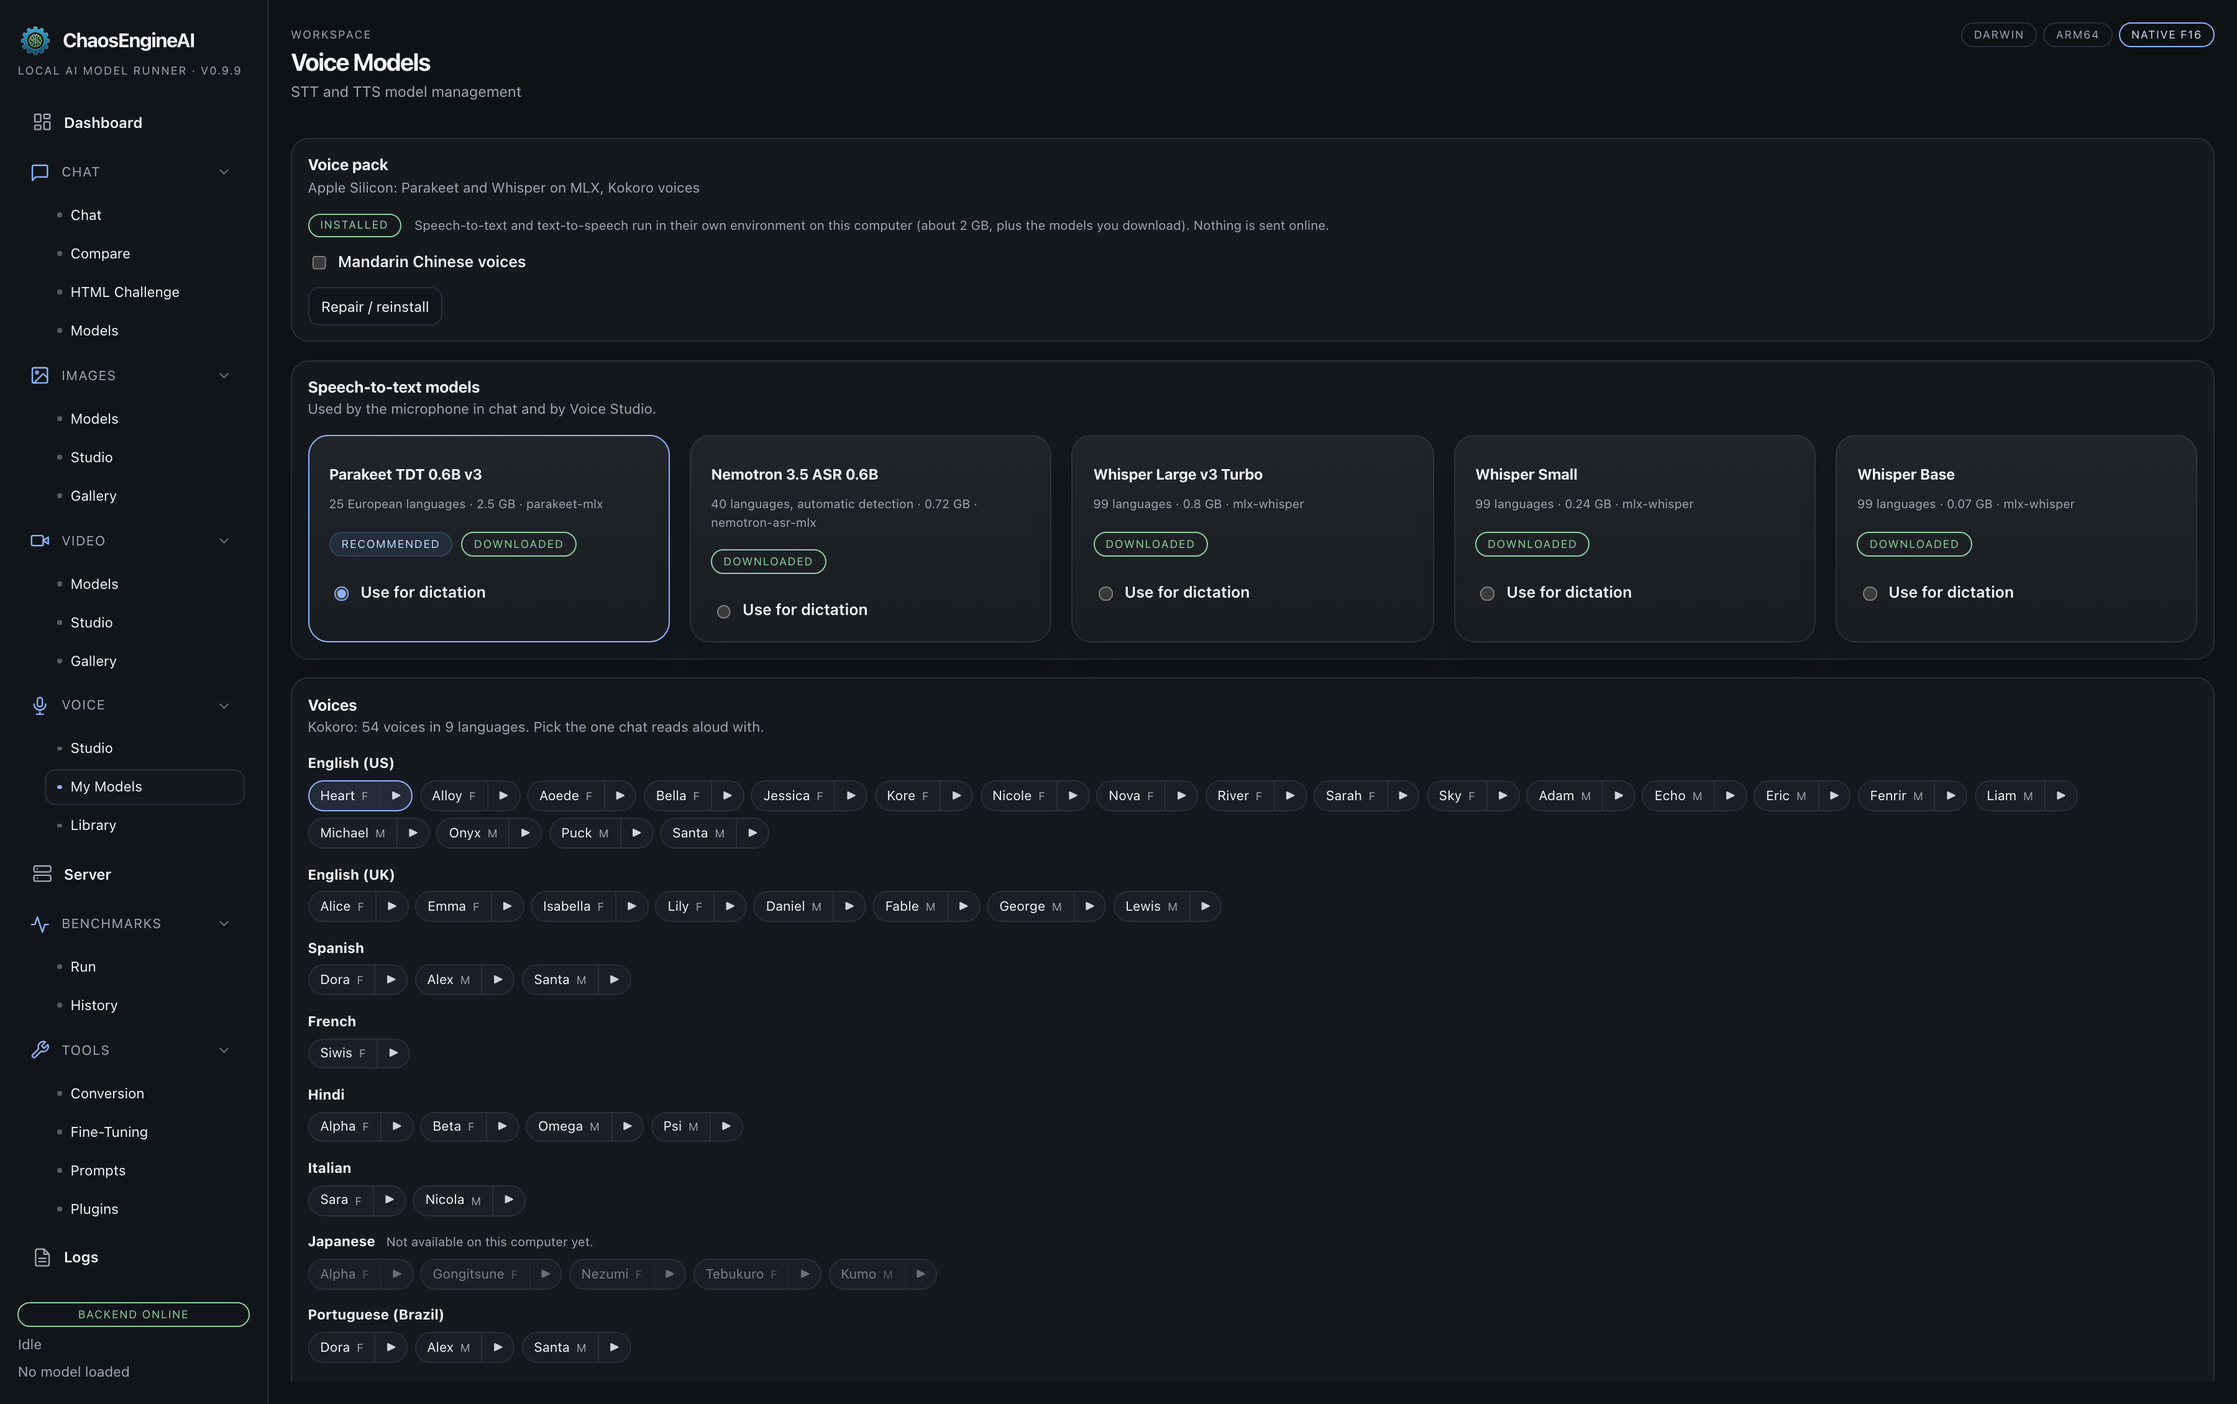
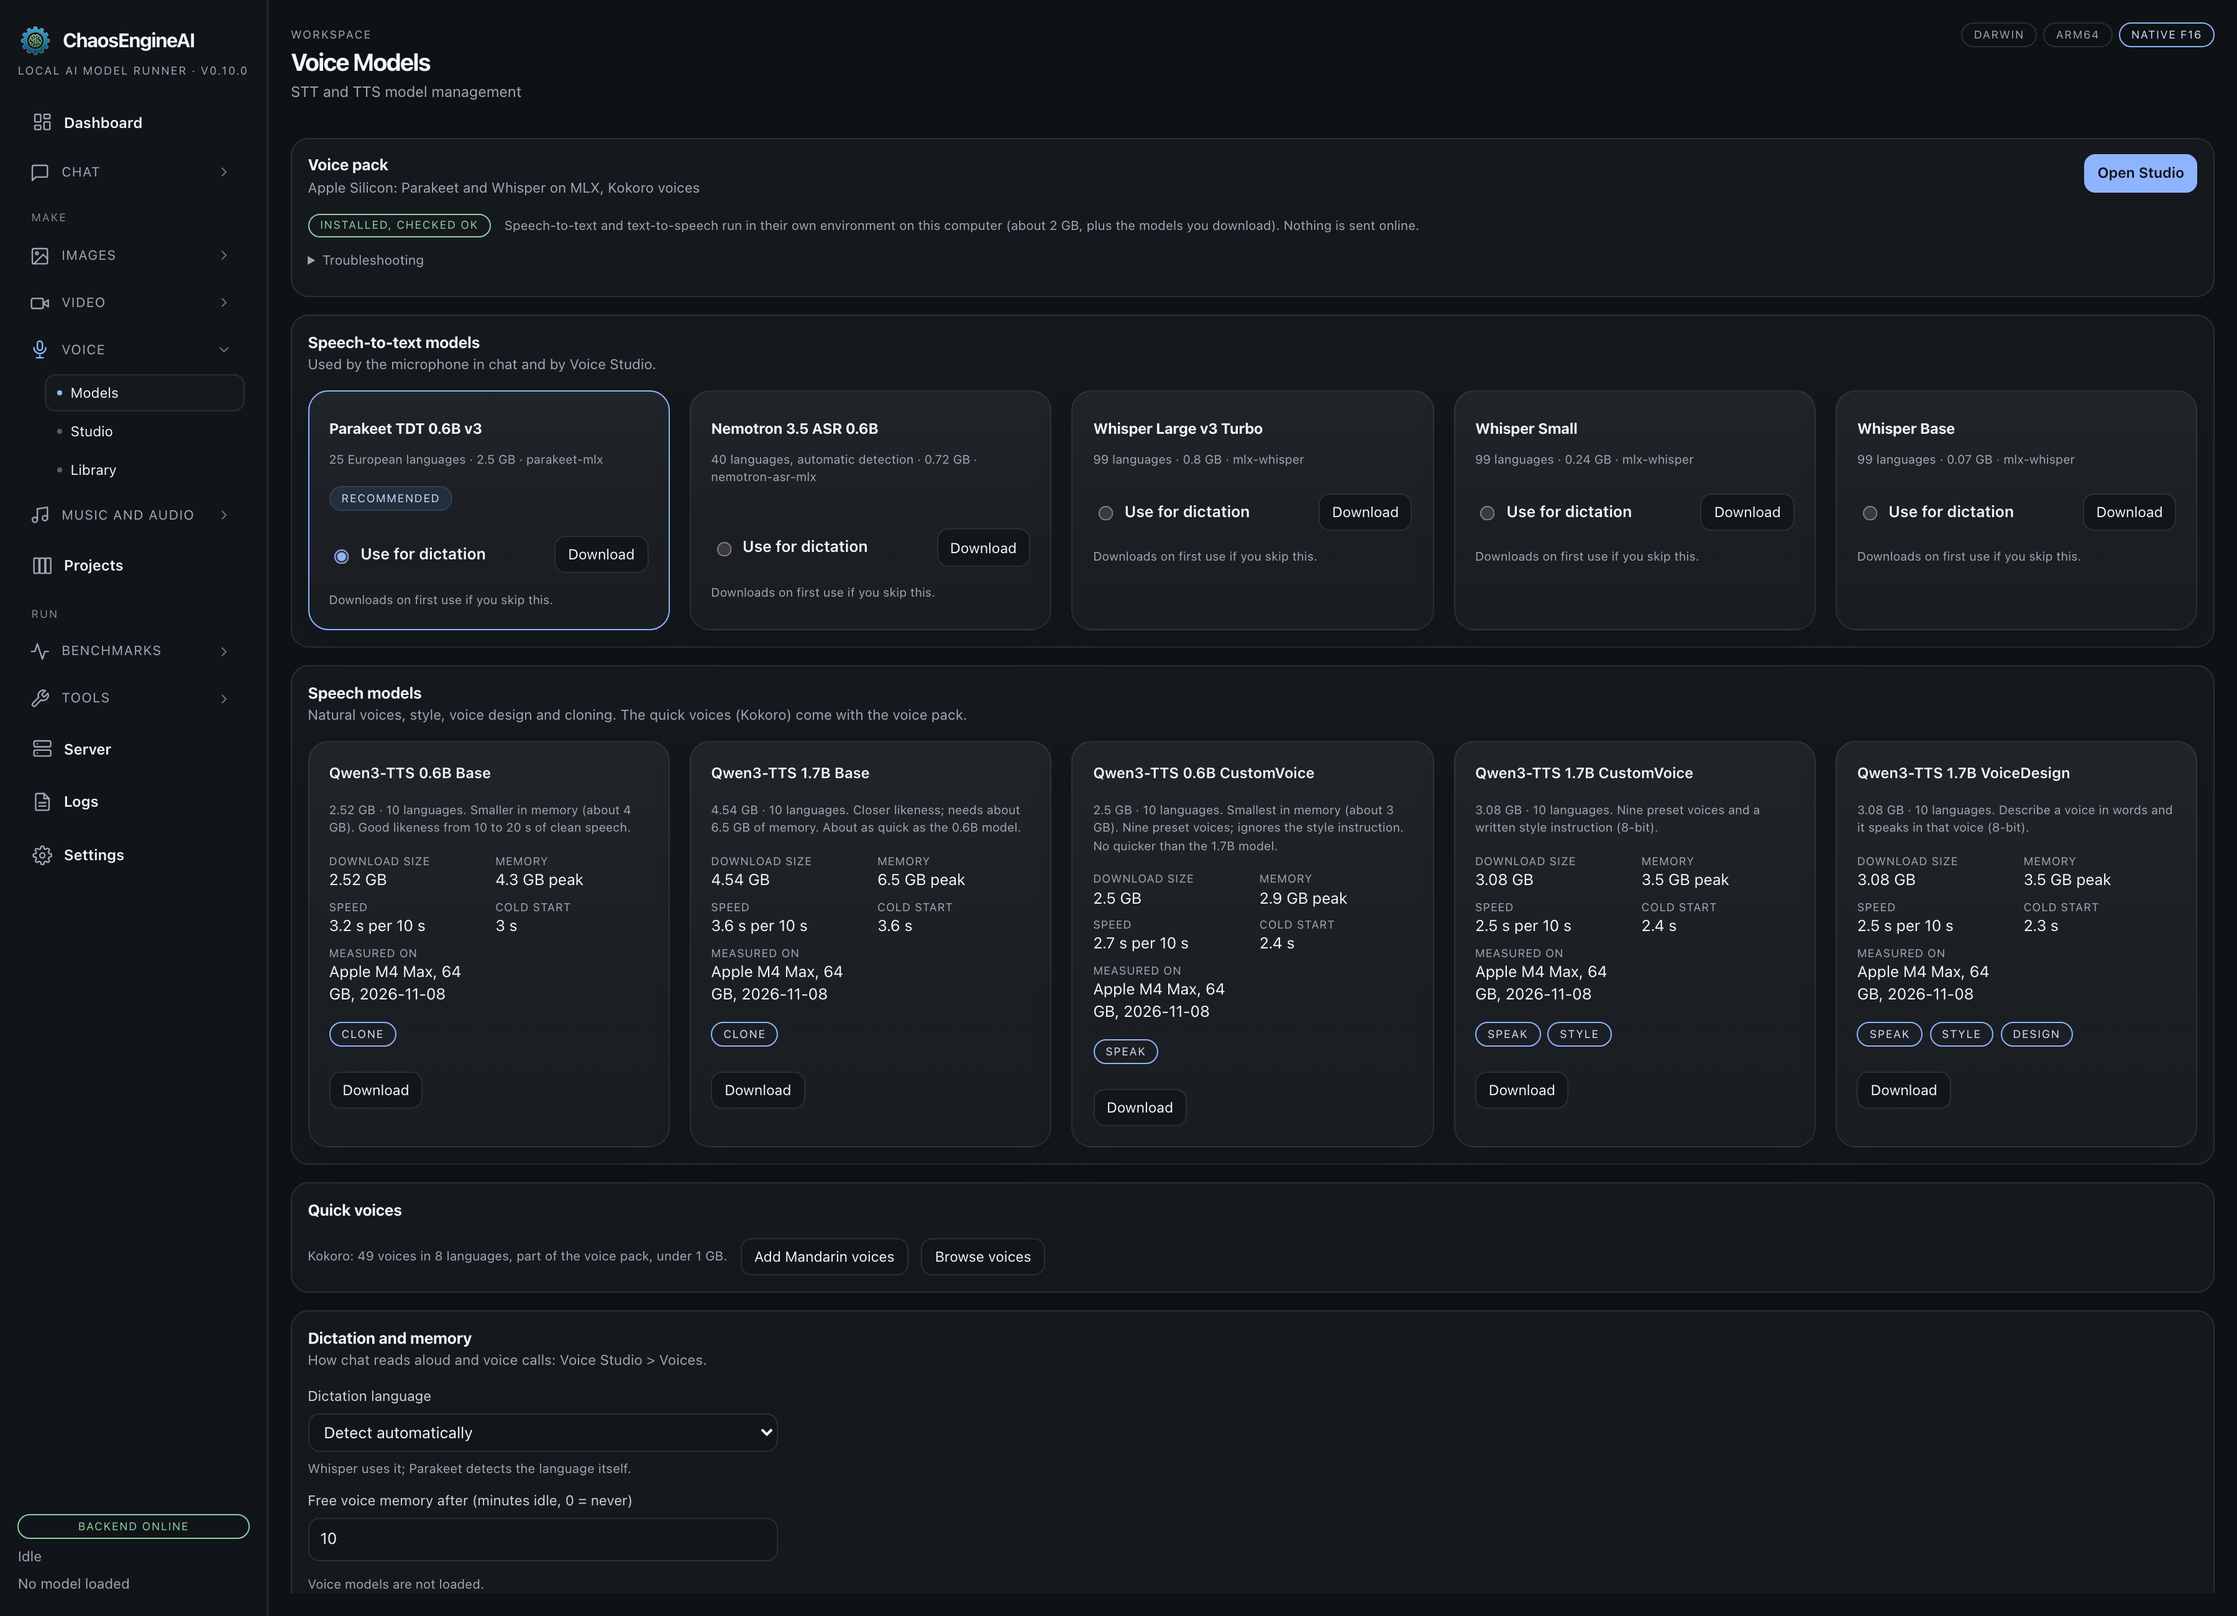
docs(voice): usage page for the Voices manager, Chat and calls, autosave and Speak again; new Voice Models screenshot; FU-146 shipped; D-67 progress line; hub rebuilt (D-67 W10)

diff --git a/docs/usage/voice.md b/docs/usage/voice.md
@@ -8,12 +8,17 @@ Studio for transcribing and speaking files.
 
 Install the voice pack once from **Voice > Models** (about 2 GB, plus the
 models you choose). It lives in its own folder, so it cannot disturb the rest
-of the app. The same page lists the speech-recognition models, lets you pick
-the one used for dictation, and previews the Kokoro voices that chat reads
-aloud with. Each speech model row shows its download size, peak memory,
+of the app. The same page lists the speech-recognition models and lets you
+pick the one used for dictation. Each speech model row shows its download size, peak memory,
 seconds per 10 s of speech, cold start and the machine it was measured on;
 an installed row has **Use in Speak** (a cloning model has **Browse
 voices**), which opens Voice Studio with that model's voice selected.
+
+The quick (Kokoro) voices have one line here, with how many there are on this
+computer, **Add Mandarin voices** while that add-on is missing, and **Browse
+voices**, which opens Voice Studio > Voices. **Dictation and memory** holds the
+dictation language, how long voice models stay loaded when idle, and **Unload
+now**. How chat reads aloud and voice calls are set on Voice Studio > Voices.
 
 ![Voice > Models](../screenshots/voice-models.png)
 
@@ -31,7 +36,8 @@ The first time you use the microphone, macOS asks for permission.
 
 - **Dictation.** The microphone button in the composer.
 - **Read-aloud.** A speaker button on every reply, or have replies read
-  automatically.
+  automatically. Chat reads with the chat voice, chosen with **Use in Chat**
+  on Voice Studio > Voices (quick voices for now).
 - **Voice calls.** Press **Call** and talk. The app hears when you stop, the
   model answers out loud, and you can talk over it to interrupt. Every turn is
   saved in the chat. An (i) next to Call lists anything still missing.
@@ -61,8 +67,8 @@ as WAV or MP3. The voice picker has five groups:
   Michael, Puck); **All voices** shows the rest. Choosing Chinese offers the
   Mandarin add-on in place when it is missing. Japanese is not listed on
   Apple Silicon, where it cannot run.
-- **Cloned**: your cloned voices, and **New cloned voice**, which opens the
-  form on the Voices tab.
+- **Cloned**: the standing statement on cloning, your cloned voices, and
+  **New cloned voice**, which opens the form on the Voices tab.
 - **Designed**: a voice made from a written description. It changes on every
   run unless you set a seed under Advanced.
 - **More**: the other natural voices, and **Get more voices**, which opens
@@ -75,12 +81,31 @@ model that will run with the same numbers, and **Manage in Models** goes to
 the model list. A model that has not been measured says so instead of
 showing a guess.
 
+The style box takes free text: tone, pace and accent in your own words. For a
+designed voice it is the description (age, gender, pitch, tone, accent, pace).
+Speed and pitch are an ffmpeg step for every voice except quick voices, which
+change speed themselves; when ffmpeg is missing the screen says so before
+Generate.
+
+Every result is saved to the Voice Library with the voice's name; **Saved to
+Library** on the result opens the Library on Speech.
+
 Speak starts on the voice you picked last time in Speak (kept apart from the
 chat voice); before you have picked one, it starts on the best installed
 natural voice for the app's language, else the best-graded quick voice. When
 both CustomVoice models are installed the 1.7B one always runs, so typing a
 style never swaps the model; the 0.6B one runs only when it is the only one
 installed.
+
+**Voices** is the voice manager: every voice in one list, filtered by kind
+(Recommended, Quick, Natural, Cloned, Designed) and language. Each row has a
+sample button (cloned and designed voices too; a sample is never kept),
+**Use in Speak** and **Use in Chat**; cloned voices also have **Delete**. Chat
+uses quick voices for now, so Use in Chat is greyed out on the others. Cards
+at the top make a cloned voice, design one, add the Mandarin voices while
+they are missing, or open Voice Models for more. **Chat and calls** at the
+bottom shows the chat voice and holds reading speed, auto-read, auto-send,
+the call pause and interrupt.
 
 **Transcribe** takes a recording or audio and video files in a queue, with
 speaker labels and translation to English. Edit the transcript, click a word
@@ -89,7 +114,7 @@ VTT or JSON, or send it to a chat.
 
 ### Clone a voice
 
-Voice Studio > **Clone** makes a voice from your own voice, or from someone
+Voice Studio > **Voices** > **Clone a voice** makes a voice from your own voice, or from someone
 who has given you permission. Apple Silicon Macs only for now. It uses
 Qwen3-TTS Base (0.6B is faster, 1.7B closer; Apache 2.0), downloaded from
 the same tab.
@@ -125,5 +150,8 @@ covers that use; the confirmation goes into the local log.
 
 ## Voice Library
 
-The Voice Library keeps every recording, transcript and generated clip. Items
-from the old Gallery move over the first time you open it.
+The Voice Library keeps every recording, transcript and generated clip. Speech
+cards name the voice and its kind (Quick, Natural, Designed, Cloned), mark
+clips made with a cloned voice as AI-made, and have **Speak again**, which
+opens Speak with the clip's text and voice. Items from the old Gallery move
+over the first time you open it.

diff --git a/FOLLOW_UPS.md b/FOLLOW_UPS.md
@@ -127,7 +127,7 @@ Read the row you need with `grep -n "FU-123" FOLLOW_UPS.md`, not the whole file.
 | FU-143 | Chat studio tools: batch a whole job into one plan | **Open (2026-11-08): not started.** Models make one plan card per render. | Add a line to the studio tool descriptions and the agent guide (D-61) telling the model to put every render for a job in one plan, then check with a real model. |
 | FU-144 | Chat thread pane very short at 375 px | **Open (2026-11-08): not started.** | On a phone-width window the app's own scroll box for the thread is short. Give it a minimum height; add a 375 px check to the Chat e2e. |
 | FU-145 | Verify per-model native frame rates | **Open (2026-11-08): not started.** Trigger: RTX 4090 test run (docs/plans/rtx4090-test.md). | The values in `backend_service/size_limits.py` came from memory sizes, not model cards. Check each against its model card or a real render, fix the hint text. |
-| FU-146 | Play a sample of cloned and designed voices | **Open (2026-11-08): not started.** | Built-in voices have a play-sample button; cloned and designed voices do not. |
+| ~~FU-146~~ | ~~Play a sample of cloned and designed voices~~ | **Shipped 2026-11-08 (D-67 W5, `feat/voice-ux-b`).** | Every voice that runs has a sample button on Voice Studio > Voices and on the Speak picker cards. Cloned and designed samples go through `POST /api/voice/speak` (request shape unchanged); the designed sample uses a fixed neutral description; a cloned sample, which the backend files in the Library (tagged and watermarked) like any cloned speech, is deleted from the Library straight after, so samples are never kept. Nobody has listened to a real cloned or designed sample yet (mocked in e2e). |
 | FU-147 | Size caps: `useChat.ts` and `generation.py` | **Open (2026-11-08): not started.** Trigger: next change to either file. | Both are over the soft caps in CLAUDE.md. Extract before adding. |
 | ~~FU-148~~ | ~~Qwen3-TTS 0.6B models: keep or hide~~ | **Dropped (owner 2026-11-08):** the only saving is disk space, which few users will lack. Both sizes stay listed. | Measured: the 0.6B models are not faster than 1.7B and cannot take a style instruction; memory is lower. |
 | FU-149 | Better speech models than Kokoro and Qwen3-TTS presets | **Open (2026-11-08): decided as D-70 (owner wants VoxCPM2, Chatterbox and Turbo, Orpheus 3B); research plan first, build after the voice UX packages.** | Candidates from docs/plans/voice-rework/research-models.md: VoxCPM2 (permissive licence, voice design and cloning, 48 kHz), Chatterbox and Chatterbox-Turbo (emotion dial, laugh tags), Orpheus 3B (most natural English presets, heavy, use the community mirror). Measure each on the M4 Max and the 4090 before adding a catalog row. Kokoro stays as the fast lane. |

diff --git a/e2e/README.md b/e2e/README.md
@@ -44,6 +44,6 @@ Traces contain request bodies and headers; do not share them from a run that use
 - `07-voice-clone`: (Voice Studio > Voices, and Speak for the cloned voice) the clone statement, the new-voice form (whose voice, speaker's name, permission tick, a sample from an uploaded file or the microphone through Chromium's fake device, wrong file type and a too-short recording refused, the fields sent), AI label on cloned speech, the form at 375 px.
 - `08-settings-terms`: Settings terms panel (read only), and an older accepted version bringing the terms back.
 - `09-mobile`: 375 px wide, no sideways scroll, a full-page screenshot per screen in `e2e/screenshots/` (git-ignored). One known failure is marked `test.fail` (F-1 in [docs/research/e2e-findings.md](../docs/research/e2e-findings.md)).
-- `14-voice-speak`: Voice Studio Speak (style box and chips greyed out for voices without style, model line and Download, the `/api/voice/speak` body), Voices (filters, Use, design card, delete with confirm) and the Voice Models speech-model rows, plus 375 px. Shared mocks in `tests/voiceMocks.ts`.
+- `14-voice-speak`: Voice Studio Speak (style box and chips greyed out for voices without style, model line and Download, the `/api/voice/speak` body), Voices (kind filters, Use in Speak, Use in Chat and the chat voice badge, samples for cloned voices not kept, Chat and calls, delete with confirm), the ffmpeg note before Generate, autosave to the Library and the Voice Models speech-model rows, plus 375 px. Shared mocks in `tests/voiceMocks.ts`.
 
 Spec order matters: `01-smoke` accepts the terms; `08` accepts them again against the same backend and leaves them accepted. `tests/helpers.ts` has the shared helpers (open a tab, seed a project, fixture media under the run's throwaway HOME).

diff --git a/docs/hub/tracker/README.md b/docs/hub/tracker/README.md
@@ -8,8 +8,8 @@ summary: Every FU row from FOLLOW_UPS.md, split into open and closed.
 
 Generated from the Follow-Ups Tracker in `FOLLOW_UPS.md` by `tools/hub_tracker.py`; edit the row there, not here.
 
-- [Open and live follow-ups](open.md): **71** rows.
-- [Closed follow-ups](closed.md): **79** rows.
+- [Open and live follow-ups](open.md): **70** rows.
+- [Closed follow-ups](closed.md): **80** rows.
 
 ## Newest ten
 
@@ -21,7 +21,7 @@ Generated from the Follow-Ups Tracker in `FOLLOW_UPS.md` by `tools/hub_tracker.p
 | [FU-149](open.md) | Better speech models than Kokoro and Qwen3-TTS presets | Open (2026-11-08): decided as D-70 (owner wants VoxCPM2, Chatterbox and Turbo, Orpheus 3B) |
 | [FU-148](closed.md) | Qwen3-TTS 0.6B models: keep or hide | Dropped (owner 2026-11-08): the only saving is disk space, which few users will lack |
 | [FU-147](open.md) | Size caps: useChat.ts and generation.py | Open (2026-11-08): not started |
-| [FU-146](open.md) | Play a sample of cloned and designed voices | Open (2026-11-08): not started. |
+| [FU-146](closed.md) | Play a sample of cloned and designed voices | Shipped 2026-11-08 (D-67 W5, feat/voice-ux-b). |
 | [FU-145](open.md) | Verify per-model native frame rates | Open (2026-11-08): not started |
 | [FU-144](open.md) | Chat thread pane very short at 375 px | Open (2026-11-08): not started. |
 | [FU-143](open.md) | Chat studio tools: batch a whole job into one plan | Open (2026-11-08): not started |

diff --git a/docs/hub/tracker/closed.md b/docs/hub/tracker/closed.md
@@ -1,7 +1,7 @@
 ---
 title: Closed follow-ups
 order: 3
-summary: 79 shipped, obsoleted or dropped rows, newest first.
+summary: 80 shipped, obsoleted or dropped rows, newest first.
 ---
 
 # Closed follow-ups
@@ -15,6 +15,15 @@ Generated from the Follow-Ups Tracker in `FOLLOW_UPS.md` by `tools/hub_tracker.p
 **Status or trigger:** **Dropped (owner 2026-11-08):** the only saving is disk space, which few users will lack. Both sizes stay listed.
 
 **Notes:** Measured: the 0.6B models are not faster than 1.7B and cannot take a style instruction; memory is lower.
+
+</details>
+
+<details>
+<summary>FU-146 · Play a sample of cloned and designed voices — Shipped 2026-11-08 (D-67 W5, feat/voice-ux-b).</summary>
+
+**Status or trigger:** **Shipped 2026-11-08 (D-67 W5, `feat/voice-ux-b`).**
+
+**Notes:** Every voice that runs has a sample button on Voice Studio > Voices and on the Speak picker cards. Cloned and designed samples go through `POST /api/voice/speak` (request shape unchanged); the designed sample uses a fixed neutral description; a cloned sample, which the backend files in the Library (tagged and watermarked) like any cloned speech, is deleted from the Library straight after, so samples are never kept. Nobody has listened to a real cloned or designed sample yet (mocked in e2e).
 
 </details>
 

diff --git a/docs/hub/tracker/open.md b/docs/hub/tracker/open.md
@@ -1,7 +1,7 @@
 ---
 title: Open and live follow-ups
 order: 2
-summary: 71 rows with work, decisions or watch items still open, newest first.
+summary: 70 rows with work, decisions or watch items still open, newest first.
 ---
 
 # Open and live follow-ups
@@ -51,15 +51,6 @@ Generated from the Follow-Ups Tracker in `FOLLOW_UPS.md` by `tools/hub_tracker.p
 **Status or trigger:** **Open (2026-11-08): not started.** Trigger: next change to either file.
 
 **Notes:** Both are over the soft caps in CLAUDE.md. Extract before adding.
-
-</details>
-
-<details>
-<summary>FU-146 · Play a sample of cloned and designed voices — Open (2026-11-08): not started.</summary>
-
-**Status or trigger:** **Open (2026-11-08): not started.**
-
-**Notes:** Built-in voices have a play-sample button; cloned and designed voices do not.
 
 </details>
 

diff --git a/docs/plans/voice-ux-round2.md b/docs/plans/voice-ux-round2.md
@@ -6,6 +6,7 @@ Line numbers are from this branch's working tree.
 
 D-67 progress:
 - 2026-11-08: W1-W4 built on feat/voice-ux-a.
+- 2026-11-08: W5, W7, W9, W10 built on feat/voice-ux-b.
 
 ## 1. What is true today, per complaint
 
